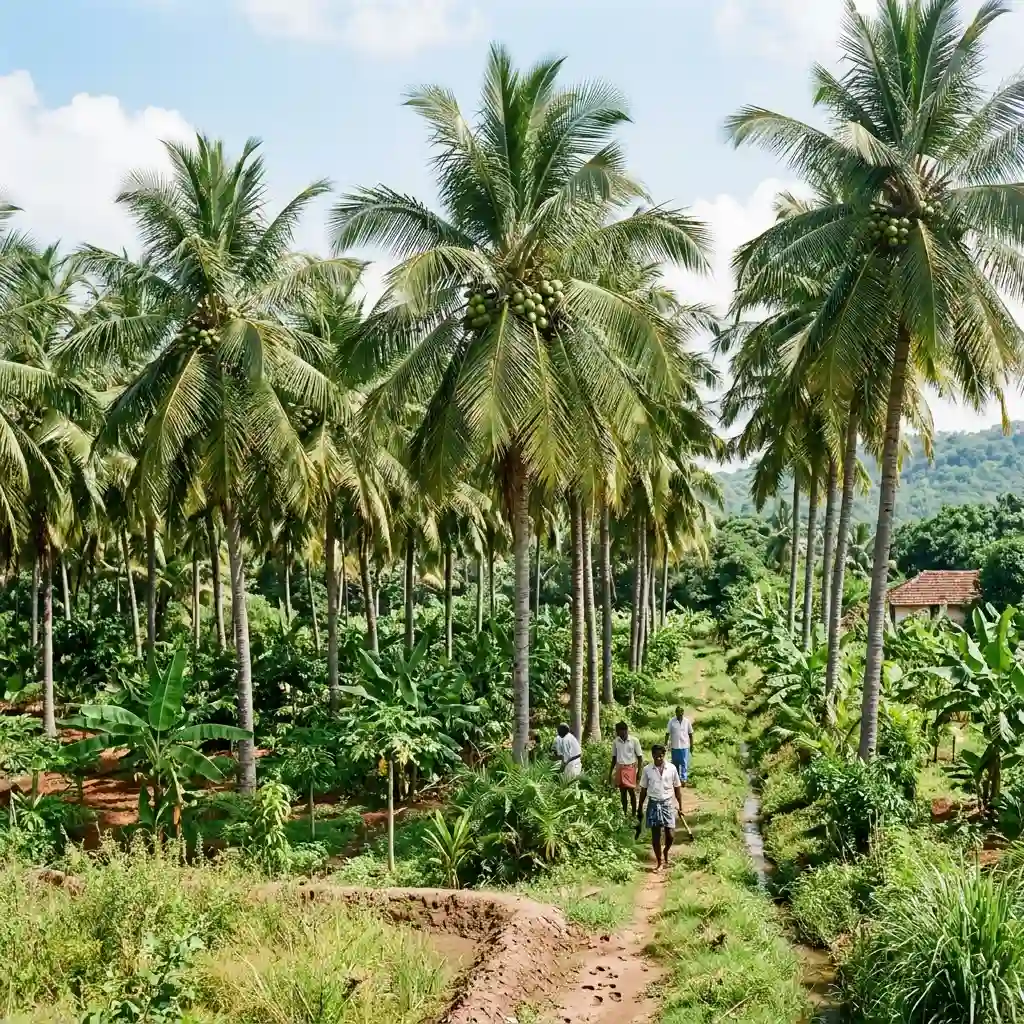
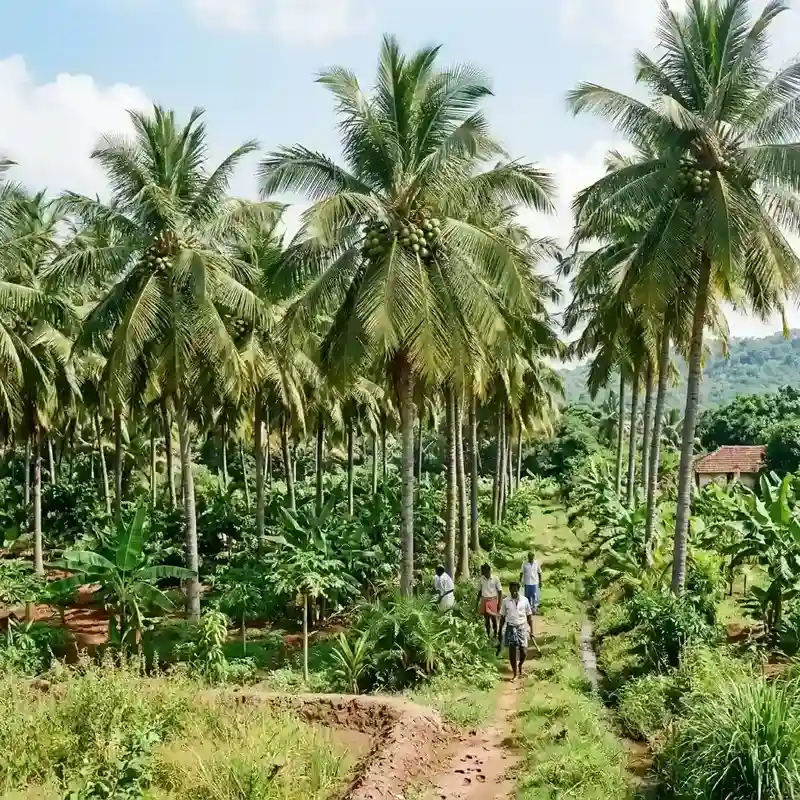
Add files via upload

diff --git a/userdashboard.html b/userdashboard.html
@@ -354,8 +354,8 @@
                   <div style="margin-top: 32px;" class="grid grid-2">
                       <div style="background: white; padding: 24px; border-radius: var(--radius-md); border: 1px solid var(--border-color);">
                           <h3 style="margin-top: 0;">Price Trend (Paddy)</h3>
-                          <div style="height: 200px; background: #f8f9fa; display: flex; align-items: center; justify-content: center; border-radius: 4px; border: 1px dashed #ccc;">
-                              <span style="color: var(--text-light);"><i class="ph-bold ph-chart-line-up" style="font-size: 24px;"></i> Chart Placeholder</span>
+                          <div style="height: 250px; width: 100%; position: relative;">
+                              <canvas id="priceTrendChart"></canvas>
                           </div>
                       </div>
                       <div style="background: white; padding: 24px; border-radius: var(--radius-md); border: 1px solid var(--border-color);">
@@ -472,9 +472,9 @@
               <div class="content-section" id="tab-farming-guides" style="display: none; padding: 24px;">
                   <h2 style="margin-bottom: 24px;">Expert Farming Guides</h2>
                   <div style="display: flex; flex-direction: column; gap: 16px;">
-                      <div style="display: flex; align-items: center; justify-content: space-between; background: white; padding: 16px 24px; border-radius: var(--radius-md); border: 1px solid var(--border-color);">
-                          <div style="display: flex; align-items: center; gap: 16px;">
-                              <div style="width: 48px; height: 48px; background: #ffebee; color: #d32f2f; border-radius: 8px; display: flex; align-items: center; justify-content: center;">
+                      <div style="display: flex; align-items: center; justify-content: space-between; flex-wrap: wrap; gap: 16px; background: white; padding: 16px; border-radius: var(--radius-md); border: 1px solid var(--border-color);">
+                          <div style="display: flex; align-items: center; gap: 16px; flex: 1 1 200px;">
+                              <div style="width: 48px; height: 48px; flex-shrink: 0; background: #ffebee; color: #d32f2f; border-radius: 8px; display: flex; align-items: center; justify-content: center;">
                                   <i class="ph-fill ph-file-pdf" style="font-size: 24px;"></i>
                               </div>
                               <div>
@@ -482,11 +482,11 @@
                                   <p style="margin: 0; font-size: 0.85rem; color: var(--text-light);">System of Rice Intensification techniques (PDF - 2.4MB)</p>
                               </div>
                           </div>
-                          <button onclick="window.location.href='404.html'" class="btn btn-secondary" style="padding: 8px 16px;"><i class="ph-bold ph-download-simple"></i> Download</button>
+                          <button onclick="window.location.href='404.html'" class="btn btn-secondary" style="padding: 8px 16px; min-width: 130px;"><i class="ph-bold ph-download-simple"></i> Download</button>
                       </div>
-                      <div style="display: flex; align-items: center; justify-content: space-between; background: white; padding: 16px 24px; border-radius: var(--radius-md); border: 1px solid var(--border-color);">
-                          <div style="display: flex; align-items: center; gap: 16px;">
-                              <div style="width: 48px; height: 48px; background: #e3f2fd; color: #1976d2; border-radius: 8px; display: flex; align-items: center; justify-content: center;">
+                      <div style="display: flex; align-items: center; justify-content: space-between; flex-wrap: wrap; gap: 16px; background: white; padding: 16px; border-radius: var(--radius-md); border: 1px solid var(--border-color);">
+                          <div style="display: flex; align-items: center; gap: 16px; flex: 1 1 200px;">
+                              <div style="width: 48px; height: 48px; flex-shrink: 0; background: #e3f2fd; color: #1976d2; border-radius: 8px; display: flex; align-items: center; justify-content: center;">
                                   <i class="ph-fill ph-article" style="font-size: 24px;"></i>
                               </div>
                               <div>
@@ -494,7 +494,7 @@
                                   <p style="margin: 0; font-size: 0.85rem; color: var(--text-light);">Step-by-step guide to making Panchagavya (Article)</p>
                               </div>
                           </div>
-                          <button onclick="window.location.href='404.html'" class="btn btn-secondary" style="padding: 8px 16px;"><i class="ph-bold ph-book-open"></i> Read</button>
+                          <button onclick="window.location.href='404.html'" class="btn btn-secondary" style="padding: 8px 16px; min-width: 130px;"><i class="ph-bold ph-book-open"></i> Read</button>
                       </div>
                   </div>
               
@@ -635,6 +635,31 @@
                             legend: { position: 'bottom' }
                         },
                         cutout: '65%'
+                    }
+                });
+            }
+
+            // Price Trend Line Chart
+            const ctxPriceTrend = document.getElementById('priceTrendChart');
+            if (ctxPriceTrend) {
+                new Chart(ctxPriceTrend, {
+                    type: 'line',
+                    data: {
+                        labels: ['Week 1', 'Week 2', 'Week 3', 'Week 4'],
+                        datasets: [{
+                            label: 'Paddy Price (₹/Quintal)',
+                            data: [2300, 2350, 2400, 2450],
+                            borderColor: '#ef6c00',
+                            backgroundColor: 'rgba(239, 108, 0, 0.1)',
+                            fill: true,
+                            tension: 0.3
+                        }]
+                    },
+                    options: {
+                        responsive: true,
+                        maintainAspectRatio: false,
+                        plugins: { legend: { display: false } },
+                        scales: { y: { min: 2000 } }
                     }
                 });
             }

diff --git a/admindashboard.html b/admindashboard.html
@@ -468,16 +468,14 @@
                           </div>
                       </div>
                   </div>
-                  <div style="background: white; padding: 32px; border-radius: var(--radius-md); border: 1px solid var(--border-color); text-align: center; height: 300px; display: flex; align-items: center; justify-content: center;">
-                      <p style="color: var(--text-light);"><i class="ph-fill ph-chart-line-up" style="font-size: 48px; margin-bottom: 16px; display: block;"></i> User Engagement Chart <br><small>(Chart.js integration placeholder)</small></p>
+                  <div style="background: white; padding: 24px; border-radius: var(--radius-md); border: 1px solid var(--border-color); position: relative; height: 350px; width: 100%;">
+                      <canvas id="userEngagementChart"></canvas>
                   </div>
-              
-
                   <div style="margin-top: 32px;" class="grid grid-2">
                       <div style="background: white; padding: 24px; border-radius: var(--radius-md); border: 1px solid var(--border-color);">
                           <h3 style="margin-top: 0;">Platform Traffic Sources</h3>
-                          <div style="height: 200px; background: #f8f9fa; display: flex; align-items: center; justify-content: center; border-radius: 4px; border: 1px dashed #ccc;">
-                              <span style="color: var(--text-light);"><i class="ph-bold ph-chart-pie" style="font-size: 24px;"></i> Traffic Pie Chart Placeholder</span>
+                          <div style="height: 250px; width: 100%; position: relative;">
+                              <canvas id="trafficPieChart"></canvas>
                           </div>
                       </div>
                       <div style="background: white; padding: 24px; border-radius: var(--radius-md); border: 1px solid var(--border-color);">
@@ -663,6 +661,52 @@
                             legend: { position: 'bottom' }
                         },
                         cutout: '65%'
+                    }
+                });
+            }
+
+            // User Engagement Line Chart
+            const ctxEngagement = document.getElementById('userEngagementChart');
+            if (ctxEngagement) {
+                new Chart(ctxEngagement, {
+                    type: 'line',
+                    data: {
+                        labels: ['Mon', 'Tue', 'Wed', 'Thu', 'Fri', 'Sat', 'Sun'],
+                        datasets: [{
+                            label: 'Active Users',
+                            data: [8500, 9200, 9100, 10500, 11200, 12500, 14000],
+                            borderColor: '#2e7d32',
+                            backgroundColor: 'rgba(46, 125, 50, 0.1)',
+                            fill: true,
+                            tension: 0.4
+                        }]
+                    },
+                    options: {
+                        responsive: true,
+                        maintainAspectRatio: false,
+                        plugins: { legend: { display: false } },
+                        scales: { y: { beginAtZero: true } }
+                    }
+                });
+            }
+
+            // Traffic Pie Chart
+            const ctxTraffic = document.getElementById('trafficPieChart');
+            if (ctxTraffic) {
+                new Chart(ctxTraffic, {
+                    type: 'pie',
+                    data: {
+                        labels: ['Organic Search', 'Direct', 'Social Media', 'Referrals'],
+                        datasets: [{
+                            data: [55, 20, 15, 10],
+                            backgroundColor: ['#2e7d32', '#ef6c00', '#1976d2', '#673ab7'],
+                            borderWidth: 0
+                        }]
+                    },
+                    options: {
+                        responsive: true,
+                        maintainAspectRatio: false,
+                        plugins: { legend: { position: 'right' } }
                     }
                 });
             }

diff --git a/blog.html b/blog.html
@@ -102,33 +102,33 @@
             </div>
             
             <div class="grid grid-3">
-                <div class="card" style="padding: 0; overflow: hidden;">
+                <div class="card" style="padding: 0; overflow: hidden; display: flex; flex-direction: column;">
                     <img src="assets/images/about_farming.webp" alt="Irrigation" style="width: 100%; height: 200px; object-fit: cover;">
-                    <div style="padding: 24px;">
+                    <div style="padding: 24px; display: flex; flex-direction: column; flex-grow: 1;">
                         <span style="font-size: 0.8rem; color: var(--primary-green); font-weight: 600;">TECHNOLOGY</span>
                         <h3 style="margin: 8px 0;">Modern Irrigation Techniques for Summer Crops</h3>
                         <p style="font-size: 0.9rem; margin-bottom: 16px;">How drip and sprinkler systems can save water while improving your yield during the hot summer months.</p>
-                        <a href="404.html" class="btn btn-secondary" style="padding: 8px 16px; font-size: 0.9rem;">Read Article</a>
+                        <a href="404.html" class="btn btn-secondary" style="padding: 8px 16px; font-size: 0.9rem; margin-top: auto; align-self: flex-start;">Read Article</a>
                     </div>
                 </div>
                 
-                <div class="card" style="padding: 0; overflow: hidden;">
+                <div class="card" style="padding: 0; overflow: hidden; display: flex; flex-direction: column;">
                     <img src="assets/images/hero_farmer.webp" alt="Soil" style="width: 100%; height: 200px; object-fit: cover;">
-                    <div style="padding: 24px;">
+                    <div style="padding: 24px; display: flex; flex-direction: column; flex-grow: 1;">
                         <span style="font-size: 0.8rem; color: var(--primary-green); font-weight: 600;">BEST PRACTICES</span>
                         <h3 style="margin: 8px 0;">Maximizing Yield with Organic Manure</h3>
                         <p style="font-size: 0.9rem; margin-bottom: 16px;">The long-term benefits of using Farm Yard Manure (FYM) to improve soil structure and water retention.</p>
-                        <a href="404.html" class="btn btn-secondary" style="padding: 8px 16px; font-size: 0.9rem;">Read Article</a>
+                        <a href="404.html" class="btn btn-secondary" style="padding: 8px 16px; font-size: 0.9rem; margin-top: auto; align-self: flex-start;">Read Article</a>
                     </div>
                 </div>
                 
-                <div class="card" style="padding: 0; overflow: hidden;">
+                <div class="card" style="padding: 0; overflow: hidden; display: flex; flex-direction: column;">
                     <img src="assets/images/crop_paddy.webp" alt="Paddy" style="width: 100%; height: 200px; object-fit: cover;">
-                    <div style="padding: 24px;">
+                    <div style="padding: 24px; display: flex; flex-direction: column; flex-grow: 1;">
                         <span style="font-size: 0.8rem; color: var(--primary-green); font-weight: 600;">CROP GUIDE</span>
                         <h3 style="margin: 8px 0;">Preparing for the Samba Season</h3>
                         <p style="font-size: 0.9rem; margin-bottom: 16px;">Everything you need to know about seed selection, nursery preparation, and nutrient management for Paddy.</p>
-                        <a href="404.html" class="btn btn-secondary" style="padding: 8px 16px; font-size: 0.9rem;">Read Article</a>
+                        <a href="404.html" class="btn btn-secondary" style="padding: 8px 16px; font-size: 0.9rem; margin-top: auto; align-self: flex-start;">Read Article</a>
                     </div>
                 </div>
             </div>

diff --git a/register.html b/register.html
@@ -98,6 +98,14 @@
                     </div>
                 </div>
                 
+                <div class="form-group">
+                    <label class="form-label">Confirm Password</label>
+                    <div class="password-input-group">
+                        <input type="password" id="confirmPassword" class="form-control" required placeholder="Confirm your password">
+                        <i class="ph-bold ph-eye toggle-password" id="toggleConfirmPassword"></i>
+                    </div>
+                </div>
+                
                 <button type="submit" class="btn btn-primary" style="width: 100%; margin-top: 16px;">Create Account</button>
             </form>
             
@@ -126,6 +134,22 @@
             }
         });
 
+        const toggleConfirmPassword = document.getElementById('toggleConfirmPassword');
+        const confirmPasswordInput = document.getElementById('confirmPassword');
+
+        toggleConfirmPassword.addEventListener('click', function () {
+            const type = confirmPasswordInput.getAttribute('type') === 'password' ? 'text' : 'password';
+            confirmPasswordInput.setAttribute('type', type);
+            
+            if(type === 'text') {
+                this.classList.remove('ph-eye');
+                this.classList.add('ph-eye-slash');
+            } else {
+                this.classList.remove('ph-eye-slash');
+                this.classList.add('ph-eye');
+            }
+        });
+
         // Role Selector Logic
         const roleCards = document.querySelectorAll('.role-card');
         let selectedRole = 'user';
@@ -141,6 +165,15 @@
         // Demo Register Validation (Frontend only)
         document.getElementById('registerForm').addEventListener('submit', function(e) {
             e.preventDefault();
+            
+            const password = document.getElementById('password').value;
+            const confirmPassword = document.getElementById('confirmPassword').value;
+            
+            if (password !== confirmPassword) {
+                alert('Passwords do not match. Please try again.');
+                return;
+            }
+            
             // Redirect to login page on successful registration
             window.location.href = 'login.html';
         });

diff --git a/crop-advisory.html b/crop-advisory.html
@@ -90,11 +90,11 @@
             
             <!-- Filters -->
             <div style="display: flex; gap: 12px; flex-wrap: wrap; justify-content: center; margin-bottom: 40px;" id="cropFilters">
-                <button onclick="window.location.href='404.html'" class="filter-btn active" data-filter="all">All Crops</button>
-                <button onclick="window.location.href='404.html'" class="filter-btn" data-filter="kharif">Kharif</button>
-                <button onclick="window.location.href='404.html'" class="filter-btn" data-filter="rabi">Rabi</button>
-                <button onclick="window.location.href='404.html'" class="filter-btn" data-filter="summer">Summer</button>
-                <button onclick="window.location.href='404.html'" class="filter-btn" data-filter="year-round">Year-round</button>
+                <button class="filter-btn active" data-filter="all">All Crops</button>
+                <button class="filter-btn" data-filter="kharif">Kharif</button>
+                <button class="filter-btn" data-filter="rabi">Rabi</button>
+                <button class="filter-btn" data-filter="summer">Summer</button>
+                <button class="filter-btn" data-filter="year-round">Year-round</button>
             </div>
 
             <!-- Crop Grid -->

diff --git a/assets/js/gsap-animations.js b/assets/js/gsap-animations.js
@@ -60,8 +60,8 @@ document.addEventListener('DOMContentLoaded', function() {
     const fadeUpElements = document.querySelectorAll('.card, .grid > div, .section-title, .form-group, .dashboard-container section');
     
     fadeUpElements.forEach((el) => {
-        // Prevent animating sidebars or navigation inadvertently
-        if(el.closest('.sidebar') || el.closest('.topbar')) return;
+        // Prevent animating sidebars, navigation, or dynamic crop grid items inadvertently
+        if(el.closest('.sidebar') || el.closest('.topbar') || el.closest('#cropGrid')) return;
         
         gsap.from(el, {
             scrollTrigger: {
@@ -79,6 +79,9 @@ document.addEventListener('DOMContentLoaded', function() {
     // Scale-up animation for buttons and icons
     const scaleElements = document.querySelectorAll('.btn, .feature-icon, .stat-icon');
     scaleElements.forEach((el) => {
+        // Exclude navbar buttons (Login/Register) from the appear animation
+        if(el.closest('.navbar')) return;
+
         gsap.from(el, {
             scrollTrigger: {
                 trigger: el,

diff --git a/crop-protection.html b/crop-protection.html
@@ -134,11 +134,9 @@
                     </div>
                 </div>
 
-                <!-- Pest 3 (Using a dummy color block since we didn't generate all 6) -->
+                <!-- Pest 3 -->
                 <div class="card" style="padding: 0; overflow: hidden;">
-                    <div style="width: 100%; height: 200px; background-color: #e0e6e1; display: flex; align-items: center; justify-content: center;">
-                        <i class="ph-fill ph-bug" style="font-size: 64px; color: #a3b5a7;"></i>
-                    </div>
+                    <img src="assets/images/pest_fall_armyworm.webp" alt="Fall Armyworm" style="width: 100%; height: 200px; object-fit: cover;">
                     <div style="padding: 24px;">
                         <h3 style="margin-bottom: 8px;">Fall Armyworm</h3>
                         <p style="font-size: 0.85rem; margin-bottom: 16px;"><strong>Affected:</strong> Maize</p>

diff --git a/assets/css/responsive.css b/assets/css/responsive.css
@@ -5,20 +5,13 @@
     .container {
         padding: 0 40px;
     }
+    .nav-links {
+        gap: 16px;
+    }
 }
 
-/* Tablet Landscape & Small Desktop */
+/* Tablet and Mobile Layout (992px and below) */
 @media (max-width: 992px) {
-    h1 { font-size: 2.8rem; }
-    h2 { font-size: 2.2rem; }
-    
-    .grid-4 { grid-template-columns: repeat(2, 1fr); }
-    .footer-grid { grid-template-columns: repeat(2, 1fr); gap: 40px 20px; }
-}
-
-/* Tablet Portrait */
-@media (max-width: 768px) {
-
     /* Fix for mobile blank screen issues */
     html, body {
         overflow-x: hidden;
@@ -41,6 +34,8 @@
     h2 { font-size: 1.8rem; }
     
     .grid-3 { grid-template-columns: repeat(2, 1fr); }
+    .grid-4 { grid-template-columns: repeat(2, 1fr); }
+    .footer-grid { grid-template-columns: repeat(2, 1fr); gap: 40px 20px; }
     
     /* Navbar Mobile Menu */
     .desktop-auth-btn { display: none !important; }

diff --git a/index.html b/index.html
@@ -18,6 +18,7 @@
             justify-content: space-between;
             align-items: center;
         }
+        
         .weather-info h2 {
             color: white;
             font-size: 4rem;
